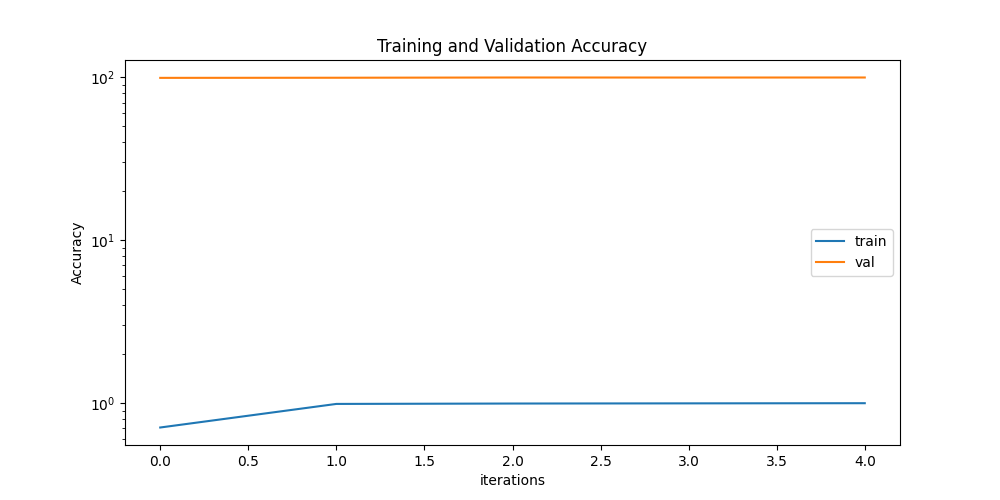
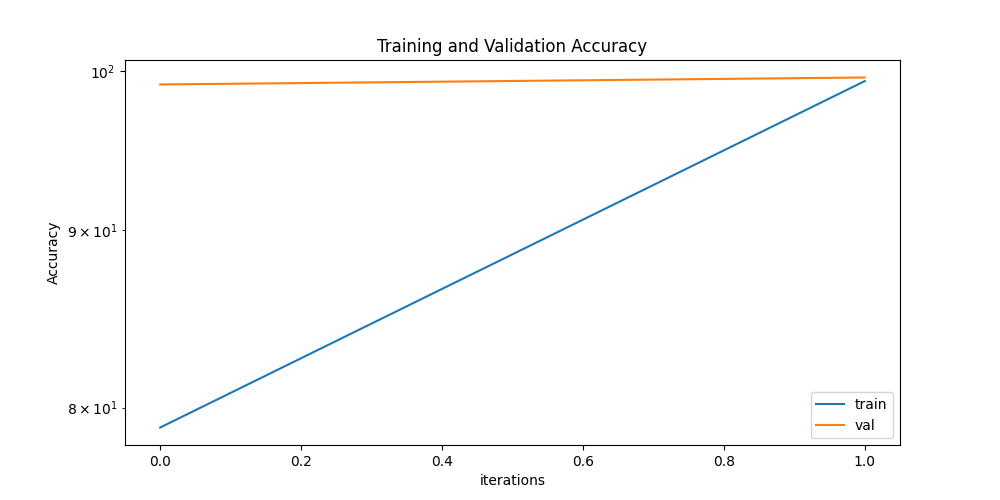
accuracy fix

diff --git a/few_shot_learning/training/resnet_trainer_v.py b/few_shot_learning/training/resnet_trainer_v.py
@@ -48,14 +48,14 @@ def prog_run():
     num_classes = len(object_classes)
     print(num_classes)
 
-    batch_size = 32
+    batch_size = 64
     #Define image size (Resnet image size is 224 x 224 x 3)
     image_size = 224
 
     # Directory of the data
     data_dir = "data/raw/2_class_resnet/"
     plot_dir = "few_shot_learning/visualization/"
-    model_store_path = 'models/model_partial_wide_resnet18_fsl_2_class_cuda_v4.pth'
+    model_store_path = 'models/model_partial_resnet18_fsl_2_class_cuda_100_v1.pth'
     #dataset mean and standard deviation
 
     data_mean = [0.4609, 0.4467, 0.4413]
@@ -85,7 +85,7 @@ def prog_run():
 
     device = torch.device("cuda:0" if torch.cuda.is_available() else "cpu")
 
-    convolutional_network = models.wide_resnet50_2(pretrained=True)
+    convolutional_network = models.resnet18(pretrained=True)
     convolutional_network.fc = nn.Flatten()
 
     convolutional_network.to(device)
@@ -129,12 +129,12 @@ def prog_run():
                 correct_batch = correct_preds/batch_size
                 #acc =float("{:.4f}".format(100. * correct_batch))
 
-                tepoch.set_postfix(loss=loss.item(), accuracy= float("{:.4f}".format(100 * accuracy)))
+                tepoch.set_postfix(loss=loss.item(), accuracy= float("{:.4f}".format(100.0 * accuracy)))
             #print("Epoch : {}/{}..".format(e+1,epochs),
             #"Training Loss: {:.6f}".format(running_loss/len(train_dataloader))) 
         training_loss = running_loss/len(train_dataloader)
         accuracy = torch.cat(acc, dim=0).mean().cpu()
-        print('accuracy:', accuracy)
+        print('accuracy:', float("{:.4f}".format(100 * accuracy)))
             #train_loss.append(running_loss)
         #plt.plot(train_loss,label="Training Loss")
         #plt.show() 
@@ -142,7 +142,7 @@ def prog_run():
         #filename_pth = 'models/model_resnet18_fsl_2_class_2.pth'
         #torch.save(model.state_dict(), filename_pth)
         #print(tot_acc)
-        return training_loss, accuracy
+        return training_loss, accuracy*100
     # def run():
     #     torch.multiprocessing.freeze_support()
 
@@ -155,7 +155,7 @@ def prog_run():
         "epochs": 5,
         "batch_size": 32
         }
-    epochs = 5
+    epochs = 2
     epoch_number = 0
     
     #optimizer = optim.Adam(convolutional_network.parameters(), lr=0.001)
@@ -198,8 +198,8 @@ def prog_run():
         accuracy = torch.cat(val_acc_total, dim=0).mean().cpu()
         avg_vloss = running_vloss / len(validation_dataloader)
         avg_vacc = float("{:.4f}".format(100. * accuracy))
-        print('LOSS train {} valid {}'.format(avg_loss, avg_vloss))
-        print('ACCURACY train {} valid {}'.format(avg_acc, avg_vacc))
+        print('Training loss {} validation loss {}'.format(avg_loss, avg_vloss))
+        print('Train accuracy {} validation accuracy {}'.format(avg_acc, avg_vacc))
 
         
         if USE_WANDB:
@@ -215,6 +215,8 @@ def prog_run():
             #             epoch_number + 1)
             # writer.flush()
         if avg_vloss < best_vloss:
+            print(f'{avg_vloss} < {best_vloss}')
+            print('saving model')
             best_vloss = avg_vloss
             model_path = model_store_path
             torch.save(convolutional_network.state_dict(), model_path)
